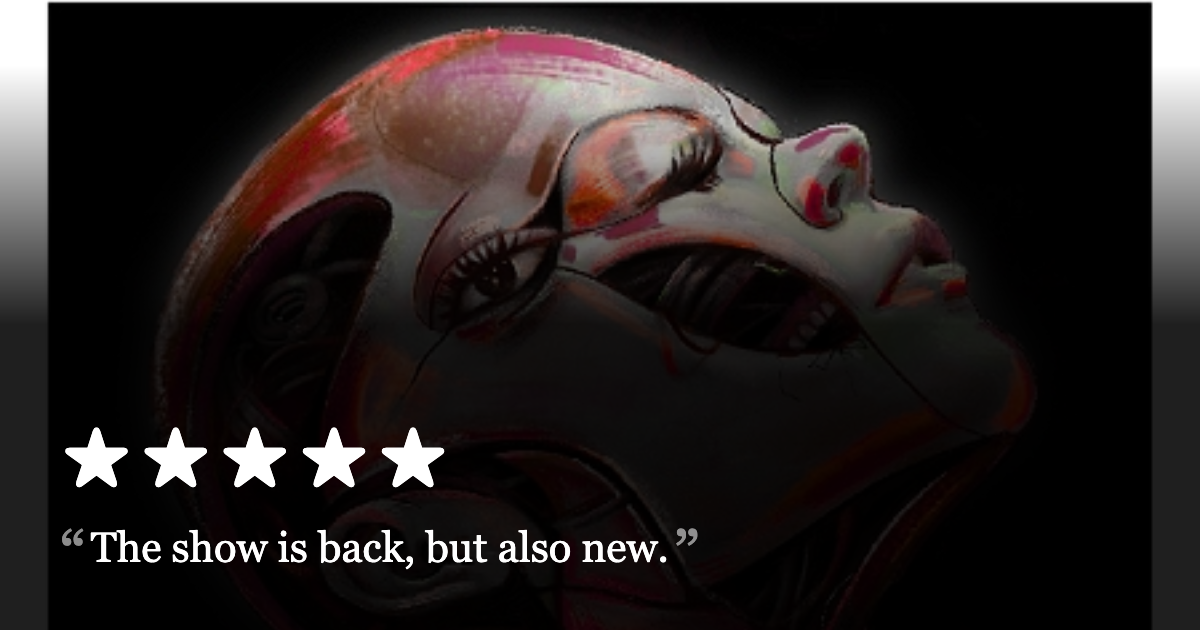
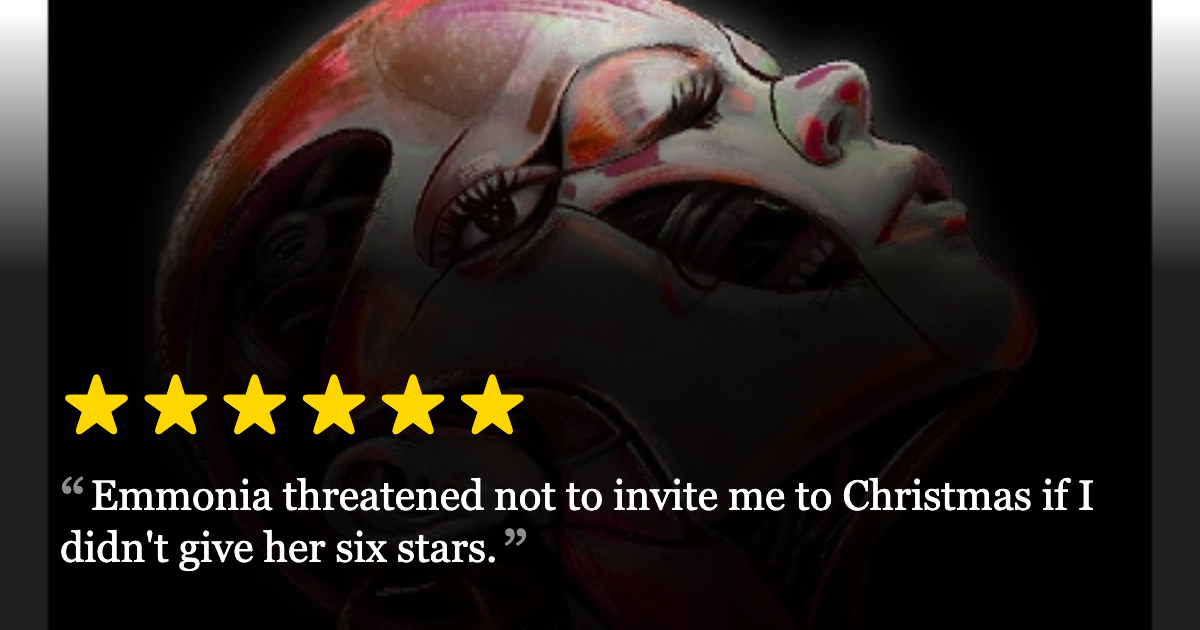
two reviews, six-star support

diff --git a/app/Schema/FringeReviewSchema.php b/app/Schema/FringeReviewSchema.php
@@ -135,7 +135,15 @@ class FringeReviewSchema
             $rating = self::originalReview($entry)?->value('stars');
         }
 
-        return ($rating === null || $rating === '') ? null : (string) $rating;
+        if ($rating === null || $rating === '') {
+            return null;
+        }
+
+        // Six stars out of five exists as a site gag (Fear Fables 2026), but a ratingValue
+        // above bestRating is invalid to Google and would cost the page its review snippet.
+        // 5 is the honest clamp onto the declared scale; the visible 6 is explained in the
+        // review text itself.
+        return (string) (float) min((float) $rating, 5);
     }
 
     private static function isRecommended($entry): bool

diff --git a/app/Http/Controllers/FringeController.php b/app/Http/Controllers/FringeController.php
@@ -947,7 +947,9 @@ class FringeController extends Controller
                 $stars = $entry->stars->value() ?: $this->originalReview($entry)?->stars->value();
 
                 if ($stars) {
-                    $score = (float) $stars * 10;
+                    // Capped at 5: six-of-five stars is a display gag, not a rank above the
+                    // genuine five-star shows — it ties into the 5-star band.
+                    $score = min((float) $stars, 5) * 10;
                 } else {
                     // Unrated shows slot onto the same scale. The buckets mirror the badges in
                     // fringe/_review-tag, and are checked in the same order, so the list reads the

diff --git a/content/collections/fringe_reviews/2026-07-29.2026-fear-fables-the-horror-drag-anthology.md b/content/collections/fringe_reviews/2026-07-29.2026-fear-fables-the-horror-drag-anthology.md
@@ -3,29 +3,45 @@ id: 5b310999-8497-40c9-9f9c-6b3da2187f42
 blueprint: fringe_review
 title: 'Fear Fables: The Horror Drag Anthology'
 festival: '2026'
-recommendation: watchlist
+recommendation: recommended
 ticket_link: 'https://tickets.fringetheatre.ca/event/601:7544/'
 original_review: bd6aafb1-603e-4a99-8d9f-7cf4e5cbbe4f
 artist: 80299dd3-353f-418e-8177-c743e909e942
 venue: a766d19c-8930-4a1f-a7a9-9dc0c315219f
 poster: fringe/fear-fables-the-horror-drag-anthology-poster.jpg
 updated_by: 9c6b6866-e047-4568-b3f4-71623caf17dd
-updated_at: 1786461520
+updated_at: 1786810839
 duration: 60
 categories:
   - cabaret
 og_image: fringe/og/2026-fear-fables-the-horror-drag-anthology.png
+stars: 6
 content:
   -
     type: paragraph
     content:
       - type: text
-        text: 'The show is back, but also new.'
+        text: "Emmonia threatened not to invite me to Christmas if I didn't give her six stars."
   -
     type: paragraph
     content:
       - type: text
-        text: 'Fear fables has now put on two showings: '
+        text: '(It is worth noting that Emmonia, the host and creator of this show is my brother-in-law)'
+  -
+    type: paragraph
+    content:
+      - type: text
+        text: 'I had to actually write additional code to support displaying six stars on a show, and it required a review architecture update. I have other things to do.'
+  -
+    type: paragraph
+    content:
+      - type: text
+        text: 'And yet, I did it, but not just because of nepotism, but because Fear Fables is great. If you love drag, if you love campy horror, if you love incredible creative costuming, this show is for you.'
+  -
+    type: paragraph
+    content:
+      - type: text
+        text: 'Fear Fables is now in its third year '
   -
     type: paragraph
     content:
@@ -50,22 +66,5 @@ content:
     type: paragraph
     content:
       - type: text
-        text: "Each has gotten better and, coincidentally, upgraded venues. From a scrappy show in a dank basement by Mill Creek, to a much slicker production in the Backstage theatre, there's been a couple near-sold-out runs of this drag cabaret."
-  -
-    type: paragraph
-    content:
-      - type: text
-        text: 'I''m told this year, the team has designed a show that leans much more heavily into "camp", which is where the show has absolutely shined in years past. And the venue is a major upgrade: they''re in the marquee Westbury Theatre (which has a '
-      -
-        type: text
-        marks:
-          - type: italic
-        text: lot
-      - type: text
-        text: ' more seats).'
-  -
-    type: paragraph
-    content:
-      - type: text
-        text: '(Disclosure: the host of the show, Emmonia, does happen to be my brother-in-law)'
+        text: 'Every year has gotten better, and now in the premiere Westbury Theatre, the show is back for its best presentation yet. It has doubled down on what makes it great which is incredible horror inspired drag costuming, all with an incredibly silly and irreverent presentation.'
 ---

diff --git a/content/collections/fringe_reviews/2026-08-14.2026-anesti-danelis-artificially-intelligent.md b/content/collections/fringe_reviews/2026-08-14.2026-anesti-danelis-artificially-intelligent.md
@@ -1,0 +1,53 @@
+---
+id: 40c36b02-8497-474d-8ceb-923a9c07a638
+blueprint: fringe_review
+title: 'Anesti Danelis: Artificially Intelligent'
+ticket_link: 'https://tickets.fringetheatre.ca/event/601:7497/'
+artist: ad296537-3a0a-4478-8db4-5ee6cd12fdc7
+categories:
+  - comedy
+venue: 891a4da7-8dd2-4782-9ebc-60d39274e937
+poster: fringe/anesti-danelis-artificially-intelligent-poster.jpg
+festival: '2026'
+recommendation: recommended
+duration: 60
+stars: 4
+updated_by: 9c6b6866-e047-4568-b3f4-71623caf17dd
+updated_at: 1786809863
+content:
+  -
+    type: paragraph
+    content:
+      - type: text
+        text: 'Anesti is a very talented standup.'
+  -
+    type: paragraph
+    content:
+      - type: text
+        text: "I'm a big fan of musical integration into comedy performances. People like Bo Burnham and Rachel Bloom immediately sprout to mind. Anesti's set is not quite like that, but it's comparable."
+  -
+    type: paragraph
+    content:
+      - type: text
+        text: 'He deftly told some very funny jokes about growing up as the child of immigrants, and engaged in pre-planned arguments with pre-recorded segments that felt authentic in the moment. And then jumped on the guitar or sang to pre-recorded tracks some bitingly funny tunes.'
+  -
+    type: paragraph
+    content:
+      - type: text
+        text: 'If this was just a standard set doing that, it probably would have been a five star show.'
+  -
+    type: paragraph
+    content:
+      - type: text
+        text: 'Unfortunately the central conceit of the show I didn''t really love. The show takes a stance on AI use that appears to be "anti", but the messaging gets a bit mixed and then parts of it do use LLM generation. I didn''t find myself enthralled with that aspect, and I noticed a bit of a division in the crowd.'
+  -
+    type: paragraph
+    content:
+      - type: text
+        text: 'All credit to him though, there were a couple jokes that whiffed, and he seamlessly pivoted that section of the set to stuff that landed better. Incredible adaptability.'
+  -
+    type: paragraph
+    content:
+      - type: text
+        text: 'Overall, a very enjoyable show.'
+---

diff --git a/content/collections/artists/anestidanelis.md b/content/collections/artists/anestidanelis.md
@@ -1,6 +1,8 @@
 ---
 id: ad296537-3a0a-4478-8db4-5ee6cd12fdc7
 blueprint: artist
-title: anestidanelis
+title: 'Anesti Danelis'
 instagram: anestidanelis
+updated_by: 9c6b6866-e047-4568-b3f4-71623caf17dd
+updated_at: 1786809856
 ---
